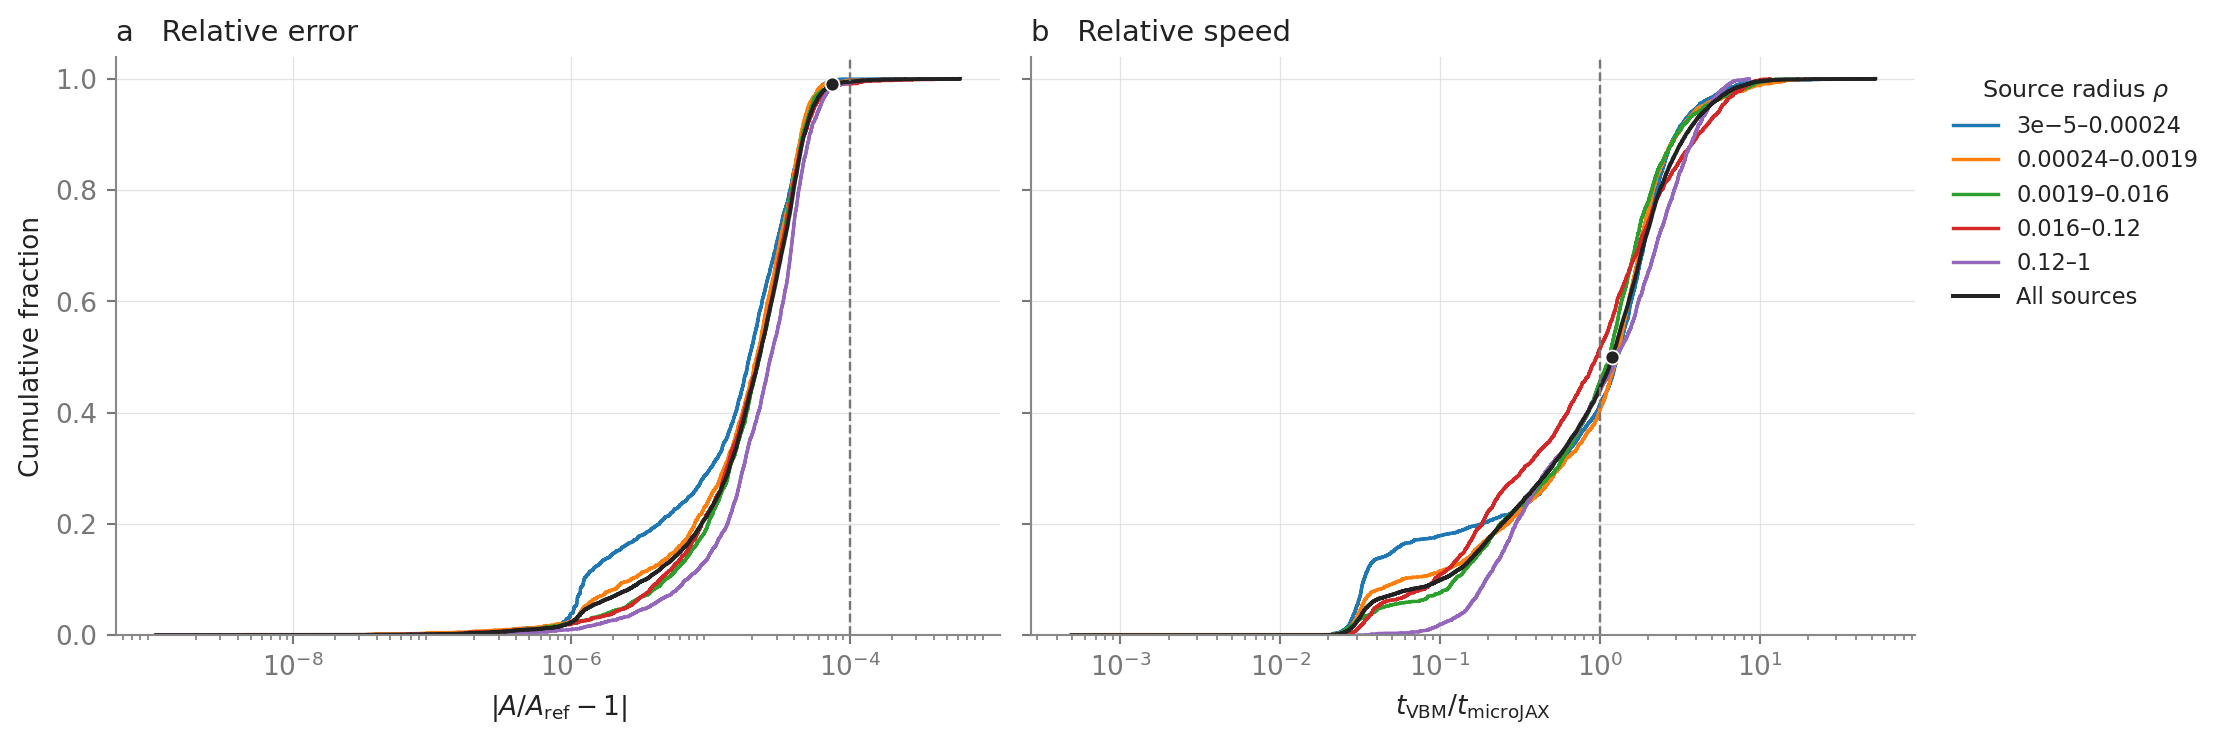
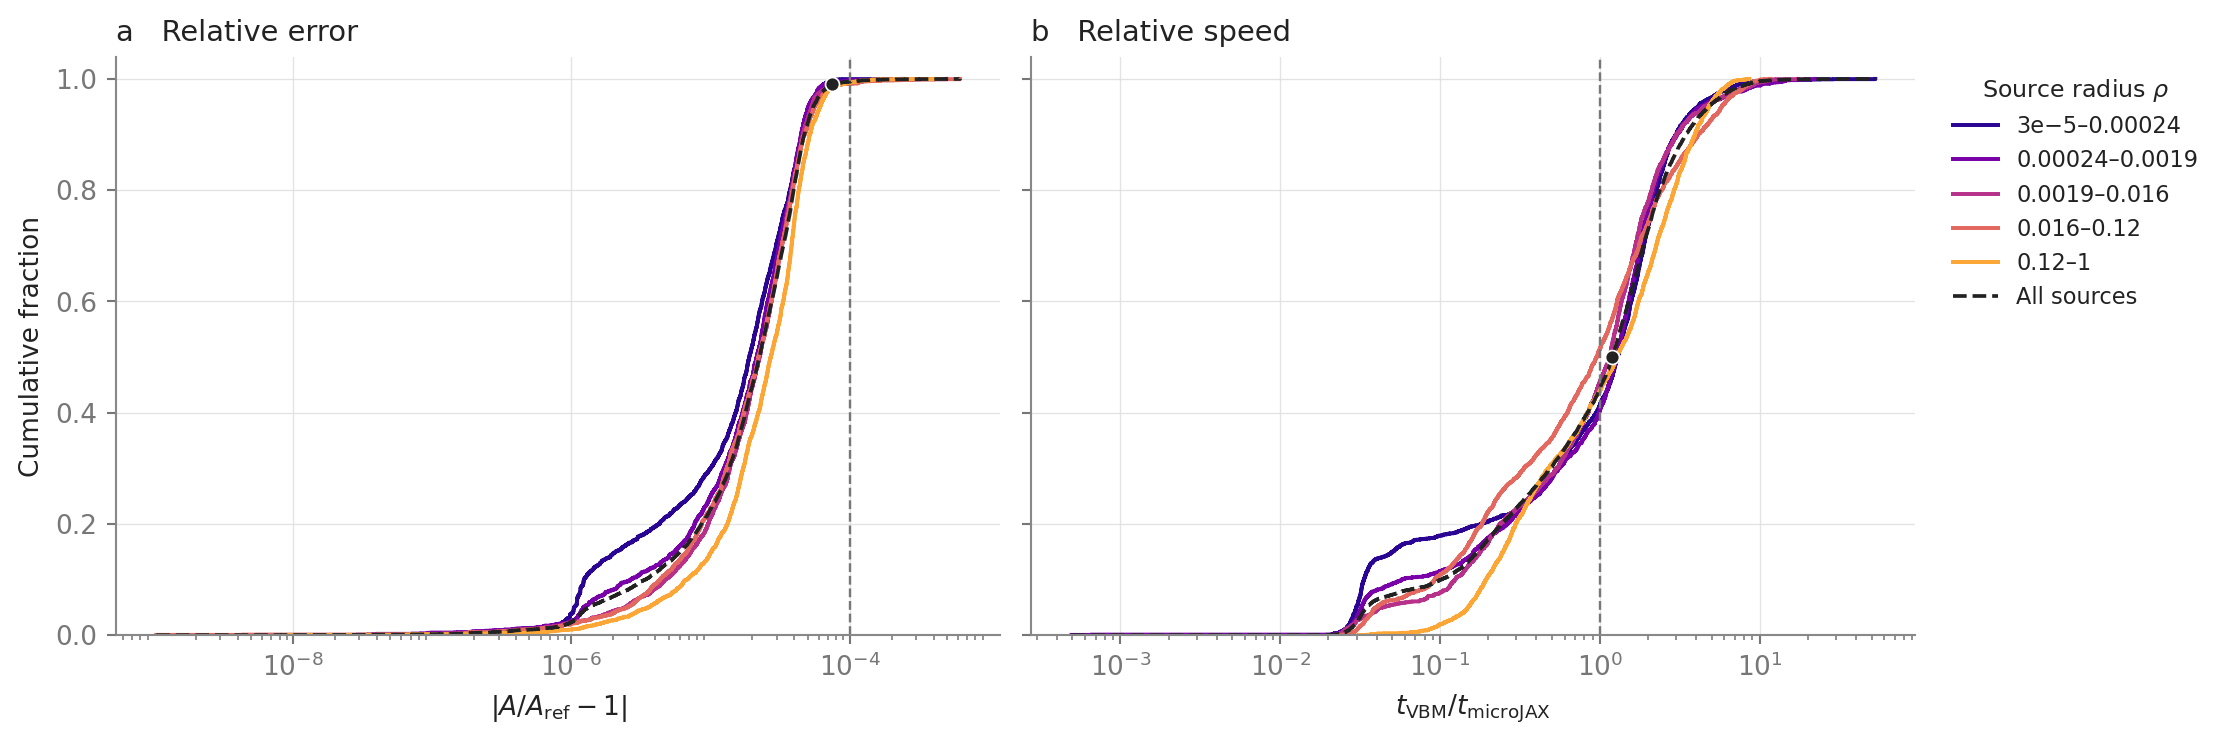
Use a clearer ordered gradient for benchmark distributions

diff --git a/tools/plot_cpu_benchmark.py b/tools/plot_cpu_benchmark.py
@@ -198,9 +198,9 @@ def interval(ax, result, coordinate, color):
 
 def overview(points, groups, edges, summary, directory):
     names = {"rho": r"Source radius $\rho$", "q": r"Mass ratio $q$", "reference": r"Magnification $A_{\rm ref}$"}
-    colors = plt.get_cmap("tab10")([0, 1, 2, 3, 4, 5, 6, 9])
     for parameter, label in names.items():
         bins = edges[parameter]
+        colors = plt.get_cmap("plasma")(np.linspace(0.05, 0.8, len(bins) - 1))
         ranges = [f"{lo:.2g}–{hi:.2g}".replace("e-0", "e−").replace("e+0", "e")
                   for lo, hi in zip(bins[:-1], bins[1:])]
         fig, axes = plt.subplots(1, 2, figsize=(11.6, 3.8), sharey=True, layout="constrained")
@@ -214,10 +214,10 @@ def overview(points, groups, edges, summary, directory):
                 values = np.sort(np.maximum(data[key][in_bin(data[parameter], bins, i)], 1e-13))
                 if values.size:
                     ax.step(values, np.arange(1, len(values) + 1) / len(values),
-                            where="post", lw=1.3, color=colors[i], label=ranges[i])
+                            where="post", lw=1.5, color=colors[i], label=ranges[i])
             values = np.sort(np.maximum(data[key], 1e-13))
             ax.step(values, np.arange(1, len(values) + 1) / len(values),
-                    where="post", lw=1.5, color=INK, label="All sources")
+                    where="post", lw=1.4, ls="--", color=INK, label="All sources")
             interval(ax, statistic, level, INK)
             ax.axvline(threshold, color=MUTED, ls="--", lw=0.9)
             log_axis(ax, "x")

diff --git a/docs_src/benchmarks.rst b/docs_src/benchmarks.rst
@@ -36,8 +36,9 @@ described below. The largest difference is :math:`6.19\times10^{-4}`.
    :target: _static/cpu_overview.png
 
    **a:** cumulative relative error; **b:** cumulative runtime ratio.
-   Colours distinguish the ranges listed in the legend; black shows all
-   sources. Dashed lines mark :math:`10^{-4}` error and equal
+   Colours progress from purple to orange as the selected parameter
+   increases; the legend lists the ranges. The black dashed curve shows
+   all sources. Grey dashed lines mark :math:`10^{-4}` error and equal
    runtime. The black points mark the overall 99th-percentile error and
    median speed ratio, with 68.27% and 95% bootstrap intervals.
 
